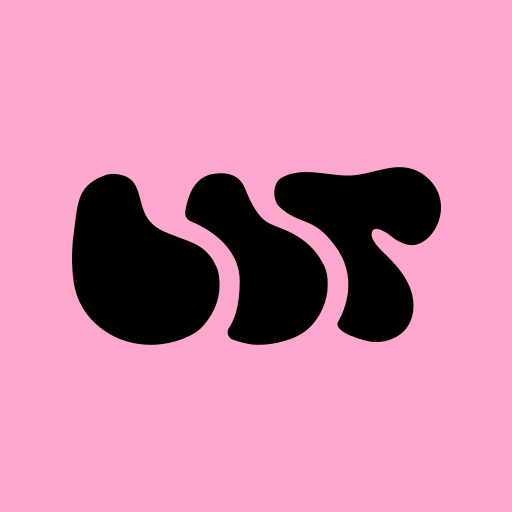
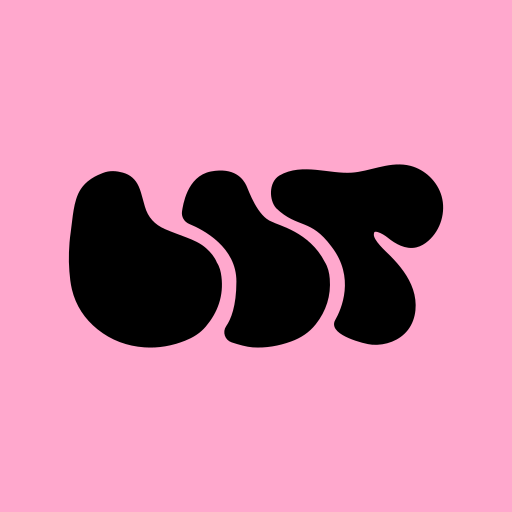
BBT Community: iconita de iPhone si logoul negru ingrosat pe iconitele roz
Fara apple-touch-icon, iOS isi alegea singur iconita din manifest. Acum are una de 180x180, ca
adminul. Logoul negru pe roz primeste conturul de 18 unitati de pe site (iradiere: negru pe
deschis pare cu spatii prea mari intre litere fata de alb pe negru).

diff --git a/packages/client/index.html b/packages/client/index.html
@@ -10,6 +10,8 @@
   <meta name="theme-color" content="#000" media="(prefers-color-scheme: dark)">
   <meta http-equiv="cache-control" content="no-cache">
   <link rel="icon" type="image/png" href="./public/assets/web/android-chrome-192x192.png">
+  <!-- BBT: iconița de iPhone, 180×180, ca la admin. Fără ea iOS își alege singur una din manifest. -->
+  <link rel="apple-touch-icon" href="./public/assets/web/apple-touch-icon.png">
   <title>BBT Community</title>
   <!-- BBT: negru din prima clipă, înainte de CSS-ul aplicației (altfel: alb, apoi gri). -->
   <style>html,body{background:#000}</style>
